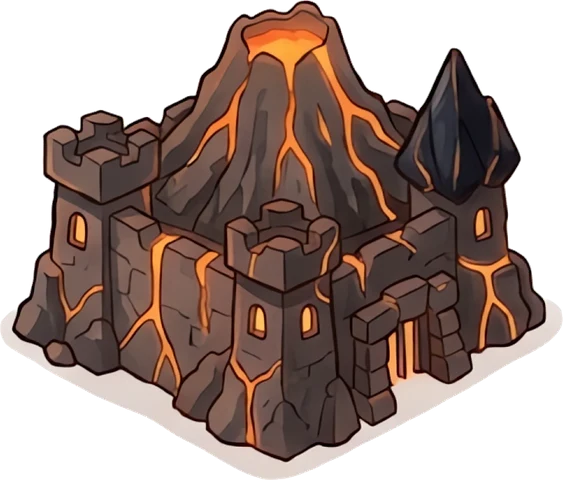
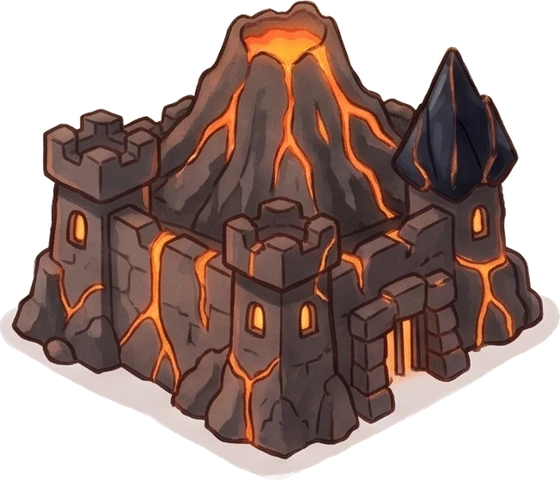
sprout v4.6: 맵 4종을 제미나이 원본 해상도로 교체(선명도 약 2.7배), 협곡 그림 원본 화질
Claude-Session: https://claude.ai/code/session_01D8ERGz5r4FPkuXoKDYhqRw

diff --git a/sprout/index.html b/sprout/index.html
@@ -3,7 +3,7 @@
 <head>
 <meta charset="utf-8">
 <meta name="viewport" content="width=device-width,initial-scale=1,viewport-fit=cover,user-scalable=no">
-<title>새싹 원정대 v4.5</title>
+<title>새싹 원정대 v4.6</title>
 <meta name="theme-color" content="#2f4a2c">
 <style>
 :root{--ink:#3a2f22;--cream:#fbf5e6}
@@ -67,7 +67,7 @@ addEventListener('resize',fit);fit();
 /* ---------- 이미지 ---------- */
 const IMG={};const NAMES=['sprout','hedgehog','fox','bunny','owl','frog','sheep','baker','sprite_e0','sprite_e1','sprite_e2','sprite_e3','boss','bg_forest','p_idle','p_run','p_swing','p_jump','p_cast','fx_leaf','fox_idle','fox_shoot','bunny_idle','bunny_heal','hedgehog_idle','hedgehog_atk','sheep_idle','sheep_atk','ground','plat','bg_village','bg_marsh','m_e0','m_e1','m_e2','m_e3','boss2','it_bread','it_clover','it_mush','it_star','it_twig','it_seed','it_chest','it_jar','owl_idle','owl_cast','frog_idle','frog_play','baker','rival','thief','castle_me','castle_foe','fg1','fg2','fg3','vfx_slash','vfx_heal','vfx_hit','vfx_lvup','vfx_star','vfx_leaf','fox_w1','fox_w2','fox_w3','fox_a','sheep_w1','sheep_w2','sheep_w3','sheep_a','bunny_w1','bunny_w2','bunny_w3','bunny_a','owl_w1','owl_w2','owl_w3','owl_a','dmg_n','dmg_c','board','chest','trophy','bg_duel','bg_wide','bg_desert','bg_blossom','bg_world','b_fox','b_sheep','b_bunny','b_hedgehog','b_owl','b_frog','b_ice','b_spire','tw_me','tw_foe','hb0','hb1','hb2','hb3','frost_h0','frost_h1','frost_h2','frost_h3','thief_h0','thief_h1','thief_h2','thief_h3','baker_h0','baker_h1','baker_h2','baker_h3','p_run2','p_k1','p_k2','p_k3','p_k4','p_k5','p_rc0','p_rc1','p_rc2','p_rc3','p_rc4','p_rc5','p_rc6','p_rc7','p_rt0','p_rt1','p_rt2','p_rt3','p_rt4','p_rt5','p_rt6','p_rt7','p_jc','p_jr','p_jf','p_jl','bg_canyon','castle_lava','castle_ghost','jg_dragon','jg_icedragon','bush','heal_fruit'];
 let loaded=0,loadedS=0;const NSM=[...new Set(NAMES.filter(n=>!n.startsWith('bg_')))],NBG=[...new Set(NAMES.filter(n=>n.startsWith('bg_')))];
-function ldImg(n){const i=IMG[n];if(i.src)return;i.src='img/'+n+(n.startsWith('bg_')?'.jpg':'.webp')+'?v=5'}
+function ldImg(n){const i=IMG[n];if(i.src)return;i.src='img/'+n+(n.startsWith('bg_')?'.jpg':'.webp')+'?v=6'}
 [...NSM,...NBG].forEach(n=>{const i=new Image(),sm=!n.startsWith('bg_');i.onload=i.onerror=()=>{loaded++;if(sm){loadedS++;if(loadedS>=NSM.length)NBG.forEach(ldImg)}};IMG[n]=i;});
 NSM.forEach(ldImg);['bg_duel','bg_village'].forEach(ldImg);setTimeout(()=>NBG.forEach(ldImg),6000);
 function mapsReady(){let ok=loadedS>=NSM.length;const pm=DU&&DU.pendM,need=[pm==='rpg'?MAPS.findIndex(m=>m.only==='rpg'):pm==='lol'&&MAPS.findIndex(m=>m.only==='lol')>=0?MAPS.findIndex(m=>m.only==='lol'):(SV.map||0),0];MAPS.forEach((m,i)=>{ldImg(m.img);if(need.includes(i)&&!IMG[m.img].complete)ok=false});return ok}
@@ -1328,7 +1328,7 @@ function drawTitle(dt){
  button(W-232,H-58,104,40,'📖 도감',()=>{scene='book'},'#cfe7b8');
  button(W-120,H-58,104,40,SV.mute?'🔇 음악':'🎵 음악',()=>{SV.mute=!SV.mute;save();if(SV.mute)bgmStop();else bgmStart()},'#e7e0f6');
  btns.unshift({x:0,y:0,w:W,h:H,cb:startGame});
- ctx.fillStyle='rgba(58,41,30,.7)';ctx.font='bold 12px system-ui';ctx.fillText('v4.5 · 선명한 그림 시험판 · 효과음 Kenney (CC0)',14,H-14);
+ ctx.fillStyle='rgba(58,41,30,.7)';ctx.font='bold 12px system-ui';ctx.fillText('v4.6 · 선명한 그림 시험판 · 효과음 Kenney (CC0)',14,H-14);
  if(loaded<NAMES.length){ctx.fillStyle='#fff';ctx.font='bold 13px system-ui';ctx.fillText('그림 불러오는 중… '+loaded+'/'+NAMES.length,14,24)}
  // 꽃잎 (천천히)
  for(let i=0;i<22;i++){const sp=18+(i%5)*6,x=((i*137+titleT*sp*1.4)%(W+80))-40,y=((i*89+titleT*(sp+10))%(H+60))-30;ctx.save();ctx.translate(x,y);ctx.rotate(titleT*.8+i);ctx.fillStyle=i%3?'rgba(255,214,228,.75)':'rgba(255,240,200,.7)';ctx.beginPath();ctx.ellipse(0,0,6,3,0,0,7);ctx.fill();ctx.restore()}
